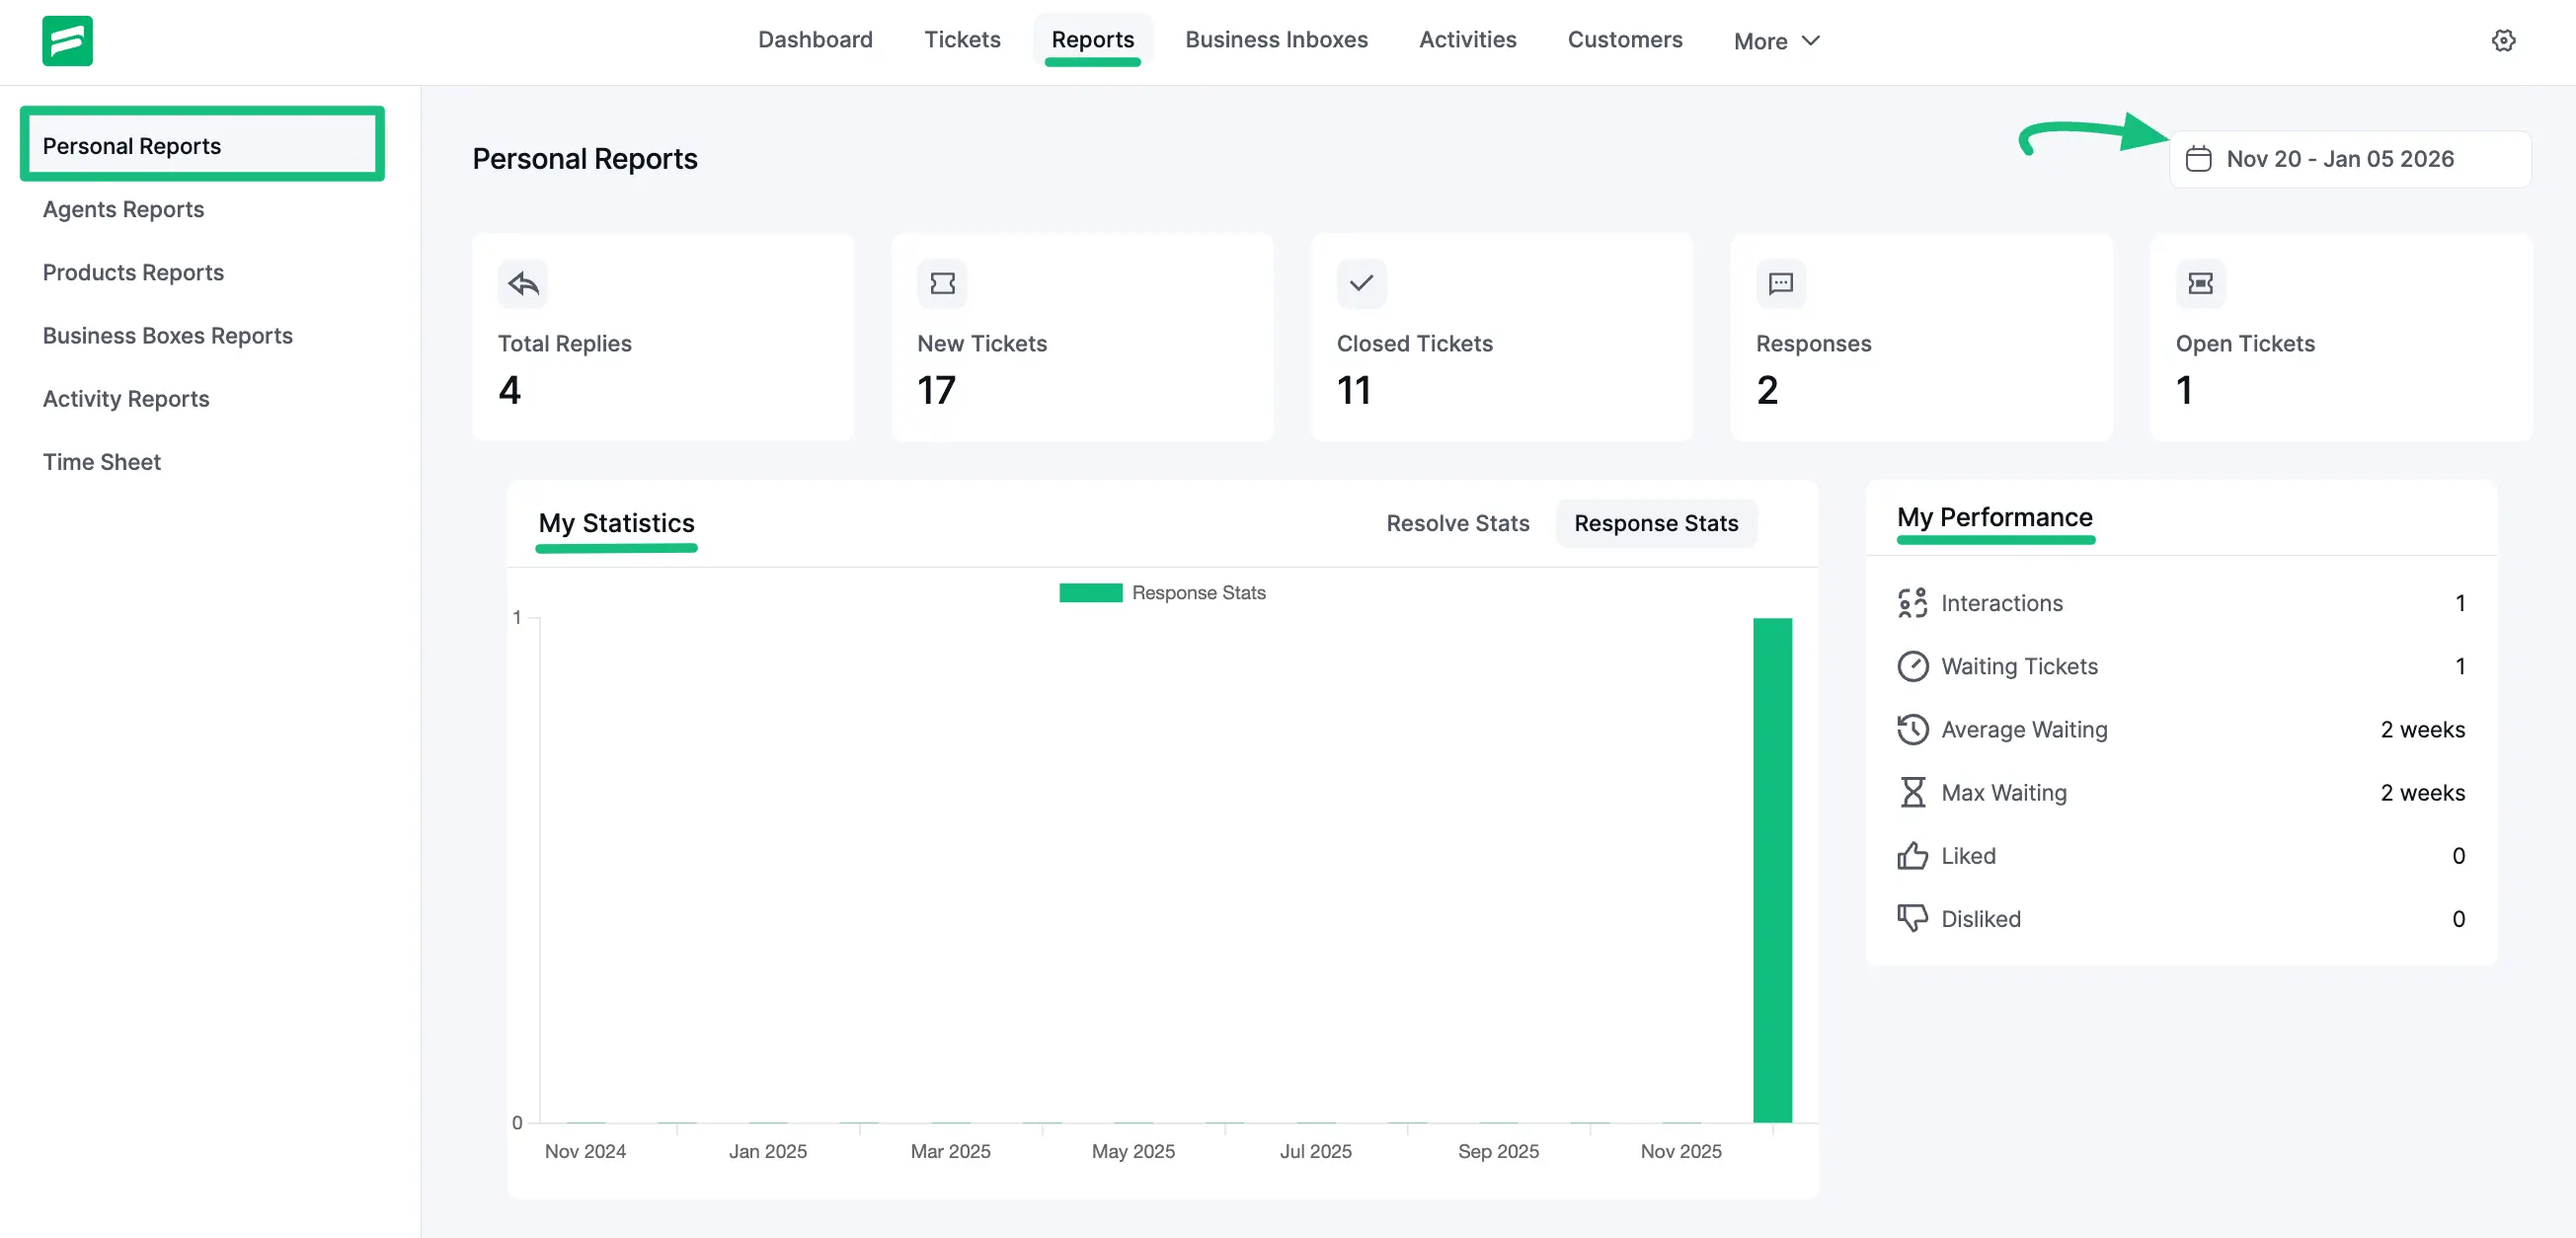
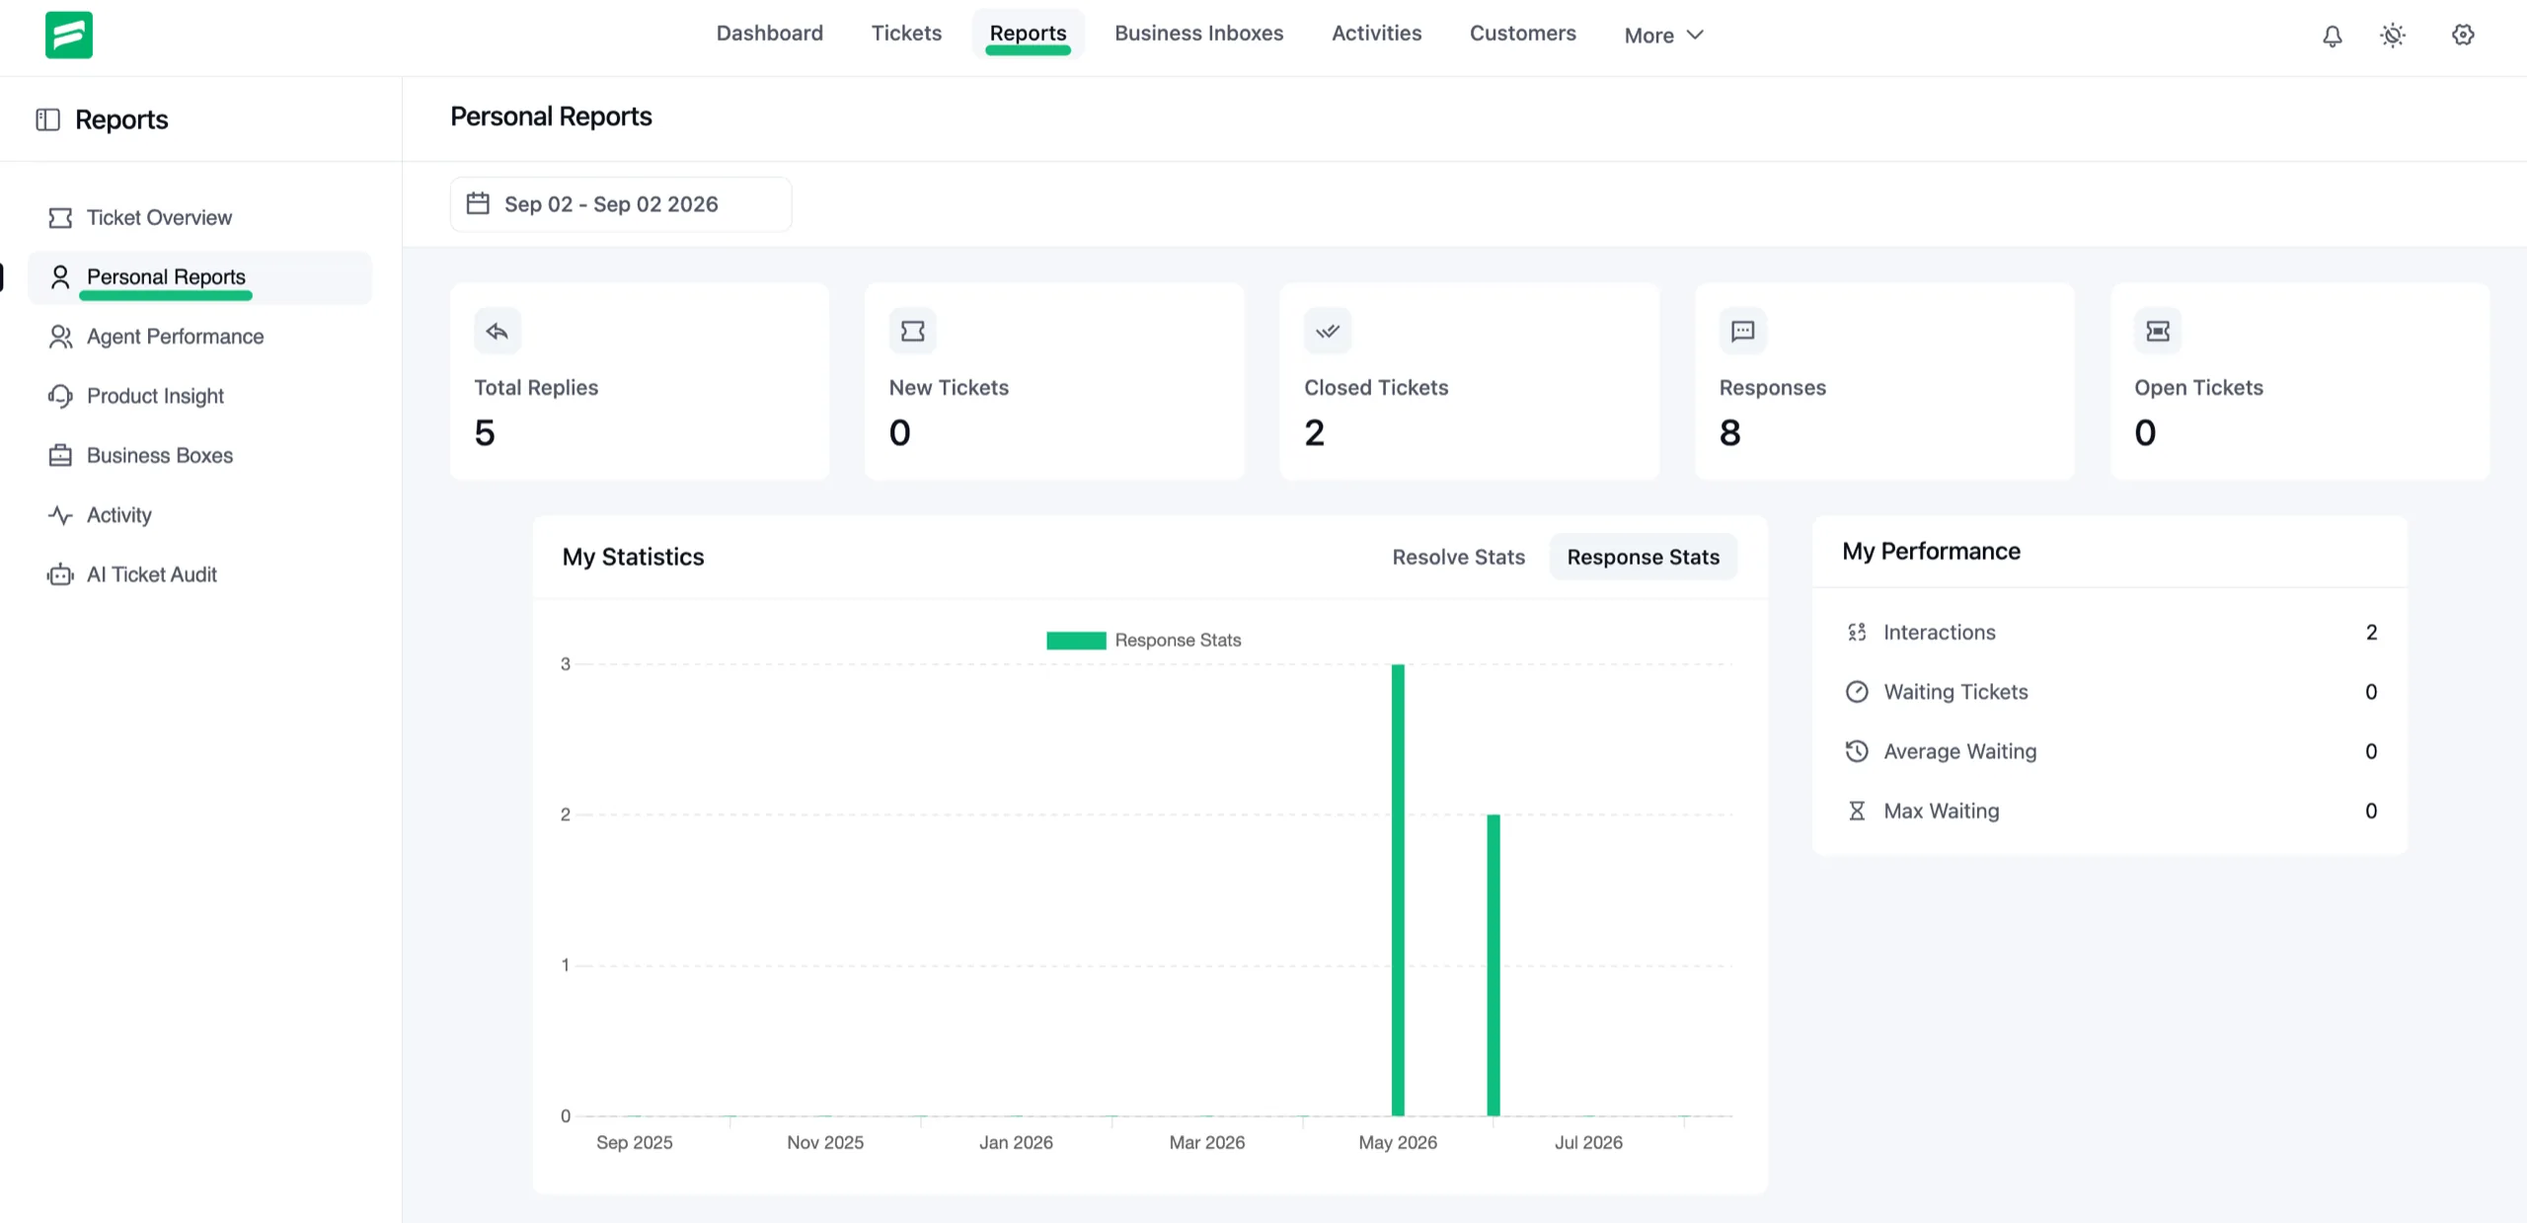
Refresh Product Insight docs
Update the product reports documentation to match the new Product Insight dashboard and terminology. This replaces the outdated Products Reports content with clearer guidance on filters, quick stats, the ticket volume chart, and the product breakdown table, and adds fresh screenshots for the revised reporting experience.

diff --git a/docs/reports-analytics/products-reports.md b/docs/reports-analytics/products-reports.md
@@ -1,30 +1,57 @@
 ---
-title: "Products Reports"
-description: "Analyze support ticket volume and performance metrics broken down by specific products."
+title: "Product Insight"
+description: "Analyze support ticket volume, response activity, interactions and waiting workload broken down by product."
 ---
 
-# Products Reports
+# Product Insight
 
-The ‘**Products Reports**’ section breaks down your support volume based on specific products. This is essential for understanding which products generate the most support requests.
+The ‘**Product Insight**’ report breaks your support volume down by product. It is the fastest way to find out which product is generating the most tickets — and, more usefully, which one is generating the most *unanswered* tickets.
 
-## Accessing Products Reports
+## Accessing Product Insight
 
-To access products reports, go to the **Reports** tab from the top menu bar and select **Products Reports** from the left side.
+Go to the **Reports** tab from the top menu bar and select **Product Insight** from the report sidebar.
 
-## Filtering and Statistics
+## Filters
 
- * **Product Filter:** Use the dropdown menu to view statistics for **All Products** or select a specific product (e.g., FluentCRM, Fluent Form) to isolate its data.
- * **Product Statistics Graph:** Shows the number of tickets for each product during the selected date range. You can also view **Ticket Stats**, **Resolve Stats**, and **Response Stats**.
+* **All Products:** View every product, or isolate a single one.
+* **Date Range:** Set the reporting period.
 
-## Product Summary Table
+The **Live / Snapshot** selector in the top right corner lets you compare against an earlier capture. See [Live and Snapshot View](/reports-and-stats#live-and-snapshot-view).
 
-The table at the bottom lists every product configured in your system. It displays:
+![Product Insight dashboard showing quick stats and the Ticket Volume by Product chart](/images/reports-analytics/reports/products-reports/product-insight-dashboard.webp)
 
-* **Responses:** Number of replies sent for tickets related to this product.
-* **Interactions:** Total touchpoints.
-* **Open Tickets:** Current backlog for the product.
-* **Closed:** Tickets for this product have been resolved.
+## Quick Stats
 
-![Products Reports Dashboard](/images/reports-analytics/reports/products-reports/product-reports-dashboard.webp)
+* **Total Tickets:** Tickets created within the range.
+* **Unanswered Tickets:** Tickets created in the range that have not received a single reply.
+* **Waiting Workload:** How many tickets are currently waiting on an agent. This is a live figure and is not affected by the date range.
+* **Response Activity:** Total agent replies sent within the range.
 
-This helps you identify which products might need better documentation or bug fixes based on high support volume.
+## Ticket Volume by Product
+
+A horizontal bar chart ranking every product by ticket count for the selected range. Hover any bar to see the exact number in a tooltip.
+
+Tickets that were submitted without a product selected are grouped under **No Product**. If that bar is large, it is usually worth revisiting your [ticket form settings](/ticket-form-customization) — you can make the product field required so customers categorise their own tickets.
+
+Use the slider on the right edge of the chart to zoom into part of the list when you have many products.
+
+## Product Breakdown
+
+The table at the bottom of the page gives you the full picture for every product configured in your system, listed alphabetically.
+
+| Column | What it counts |
+| --- | --- |
+| **Ticket Volume** | Tickets created for this product within the range. |
+| **Response Activity** | Agent replies sent on this product's tickets within the range. |
+| **Interactions** | Distinct tickets an agent replied to — one ticket counts once, no matter how many replies it received. |
+| **Open Tickets** | Tickets created in the range that are still open. |
+| **Closed** | Tickets for this product resolved within the range. |
+| **Unanswered** | Tickets created in the range with no reply yet. Highlighted so it is hard to miss. |
+| **Waiting Workload** | Tickets currently waiting on an agent. A live figure, not scoped to the date range. |
+
+![The Product Breakdown table listing ticket volume, response activity, interactions and waiting workload per product](/images/reports-analytics/reports/products-reports/product-breakdown-table.webp)
+
+The table paginates. Use the **10/page** dropdown at the bottom left to show more rows at a time, and the page numbers at the bottom right to move through the list.
+
+> [!TIP]
+> **Response Activity** and **Interactions** together tell you how hard a product is to support. A product with many responses but few interactions means each ticket is taking several rounds of back and forth to resolve — usually a documentation problem rather than a bug.
